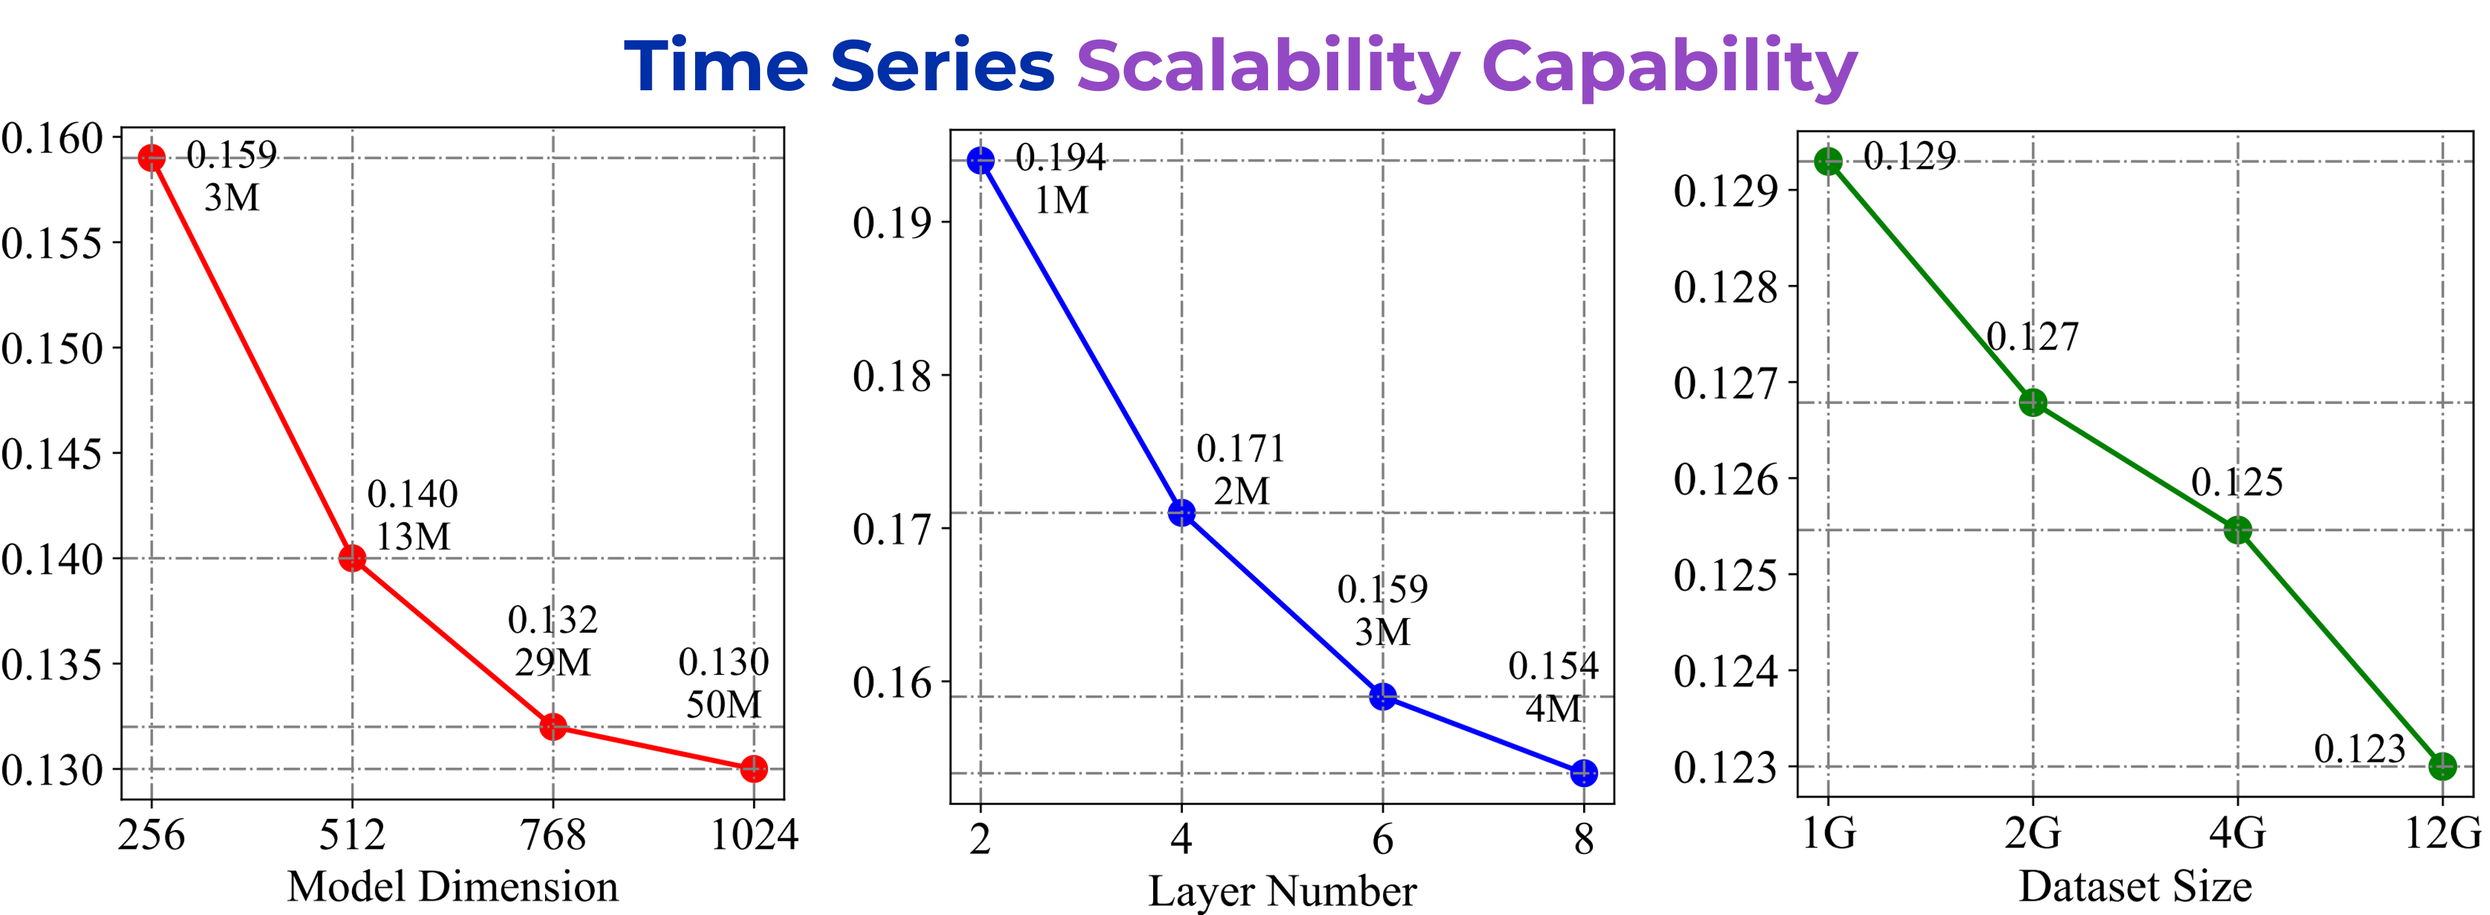
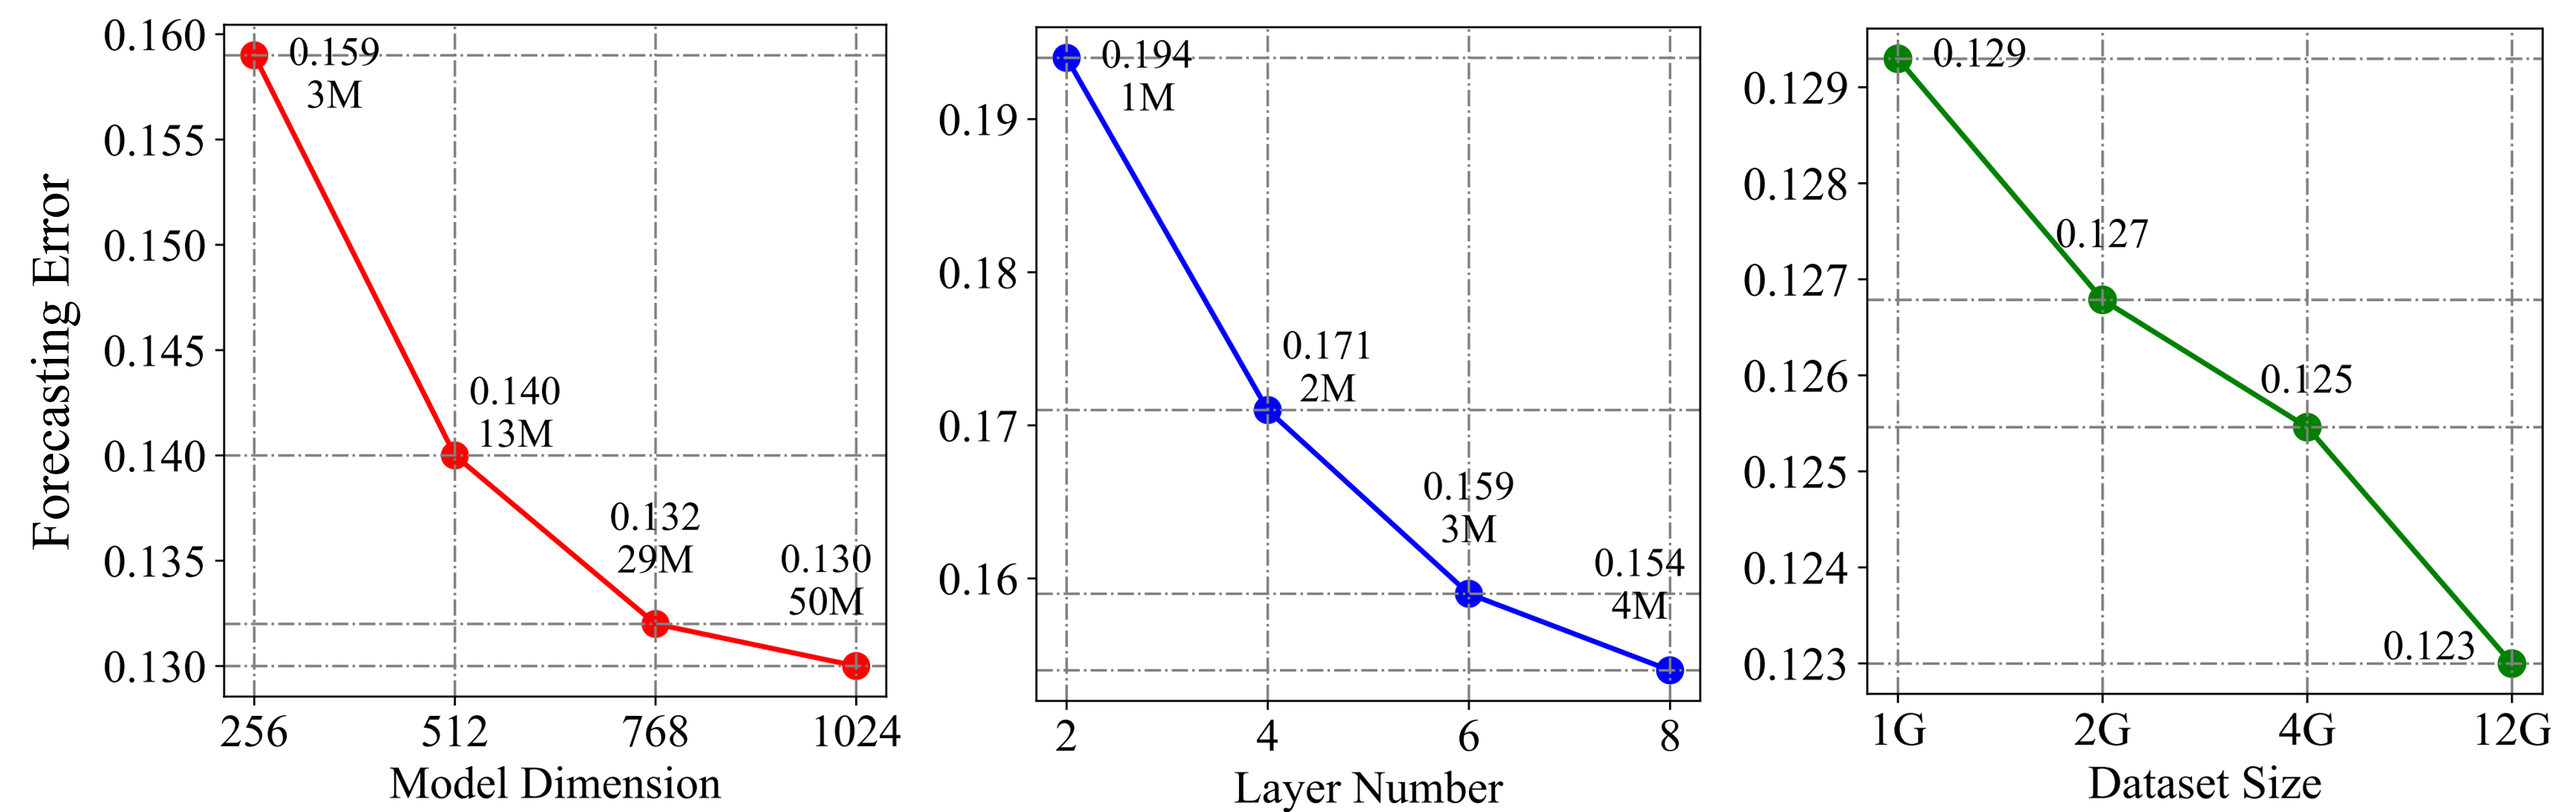
update scaling img title

diff --git a/index_zh.html b/index_zh.html
@@ -99,7 +99,7 @@
             <img src="assets/img/about-img-arch.png" alt="">
           </div>
           <div class="col-lg-6 content">
-            <h2>欢迎使用Timer-深度时序分析基础模型</h2>
+            <h2>欢迎使用Timer-深度时序分析通用基础模型</h2>
             <h3>Timer是<span>清华大学软件学院</span>在时序分析领域深耕的结晶。我们的工作受到大型语言模型对自然语言处理变革性影响的启发，在时间序列领域使用大模型技术创建了该领域首个真正意义上的大模型，并且<span>在大量数据集上进行预训练，并依靠显著的少样本能力对特定任务进行微调</span>，从而赋予深度模型强大的通用能力。我们的模型拥有以下特点：</h3>
             <ul>
               <li><i class="bi bi-check-circle"></i> 基于大规模预训练的丰富知识库</li>
@@ -109,7 +109,7 @@
           </div>
         </div>
 
-        <div class="row" id="about-abilities">
+        <div class="row about-img-row">
           <div class="about-img">
             <img src="assets/img/about-abilities.png" alt="">
           </div>
@@ -125,8 +125,9 @@
           </div>
         </div>
 
-        <div class="row" id="about-abilities">
+        <div class="row about-img-row">
           <div class="about-img">
+            <h2>大模型可扩展性</h2>
             <img src="assets/img/about-scaling.png" alt="">
           </div>
         </div>

diff --git a/index.html b/index.html
@@ -115,7 +115,7 @@
             <img src="assets/img/about-img-arch.png" alt="">
           </div>
           <div class="col-lg-6 content">
-            <h2>Welcome to Timer - Pioneering Time Series Analysis</h2>
+            <h2>Welcome to Timer - Universal Time Series Analysis</h2>
             <h3>Timer is the brainchild of a dedicated team of researchers and developers from the <span>School of Software, at Tsinghua University.</span> Our work is inspired by the transformative impact of large language models on natural language processing. We've taken the same approach to time series data, creating a model <span>pre-trained on massive datasets and fine-tuning for specific tasks</span> with remarkable few-shot ability.</h3>
             <ul>
               <li><i class="bi bi-check-circle"></i> Luxuriant knowledge base based on large-scale pre-training.</li>
@@ -125,7 +125,7 @@
           </div>
         </div>
 
-        <div class="row" id="about-abilities">
+        <div class="row about-img-row">
           <div class="about-img">
             <img src="assets/img/about-abilities.png" alt="">
           </div>
@@ -141,8 +141,9 @@
           </div>
         </div>
 
-        <div class="row" id="about-abilities">
+        <div class="row about-img-row">
           <div class="about-img">
+            <h2>Model Scalability</h2>
             <img src="assets/img/about-scaling.png" alt="">
           </div>
         </div>

diff --git a/assets/css/style.css b/assets/css/style.css
@@ -597,9 +597,6 @@ section {
   margin-bottom: 80px;
 }
 
-/* #about-abilities .row {
-  margin-bottom: 100px;
-} */
 
 #about .about-img {
   overflow: hidden;
@@ -610,7 +607,7 @@ section {
   max-width: 100%;
 }
 
-#about-abilities .about-img img {
+#about .about-img-row .about-img img {
 /* 居中对齐
 --------------------------------*/
   margin-left: 0;
@@ -620,6 +617,8 @@ section {
   width: 1600px;
   height: auto;
 }
+
+
 
 #about-arch .about-img img {
   margin-top: 50px;
@@ -641,11 +640,29 @@ section {
   }
 }
 
-#about .content h2 {
+/* #about .content h2 {
   color: #002fa7;
   font-weight: 700;
-  font-size: 36px;
+  font-size: 30px;
   font-family: "Raleway", sans-serif;
+}
+
+#about .about-img-row h2 {
+  color: #002fa7;
+  font-weight: 700;
+  font-size: 30px;
+  font-family: "Raleway", sans-serif;
+} */
+
+#about h2 {
+  color: #002fa7;
+  font-weight: 700;
+  font-size: 30px;
+  font-family: "Raleway", sans-serif;
+}
+
+#about-arch h2 {
+  font-size: 40px;
 }
 
 #about .content h3 {
